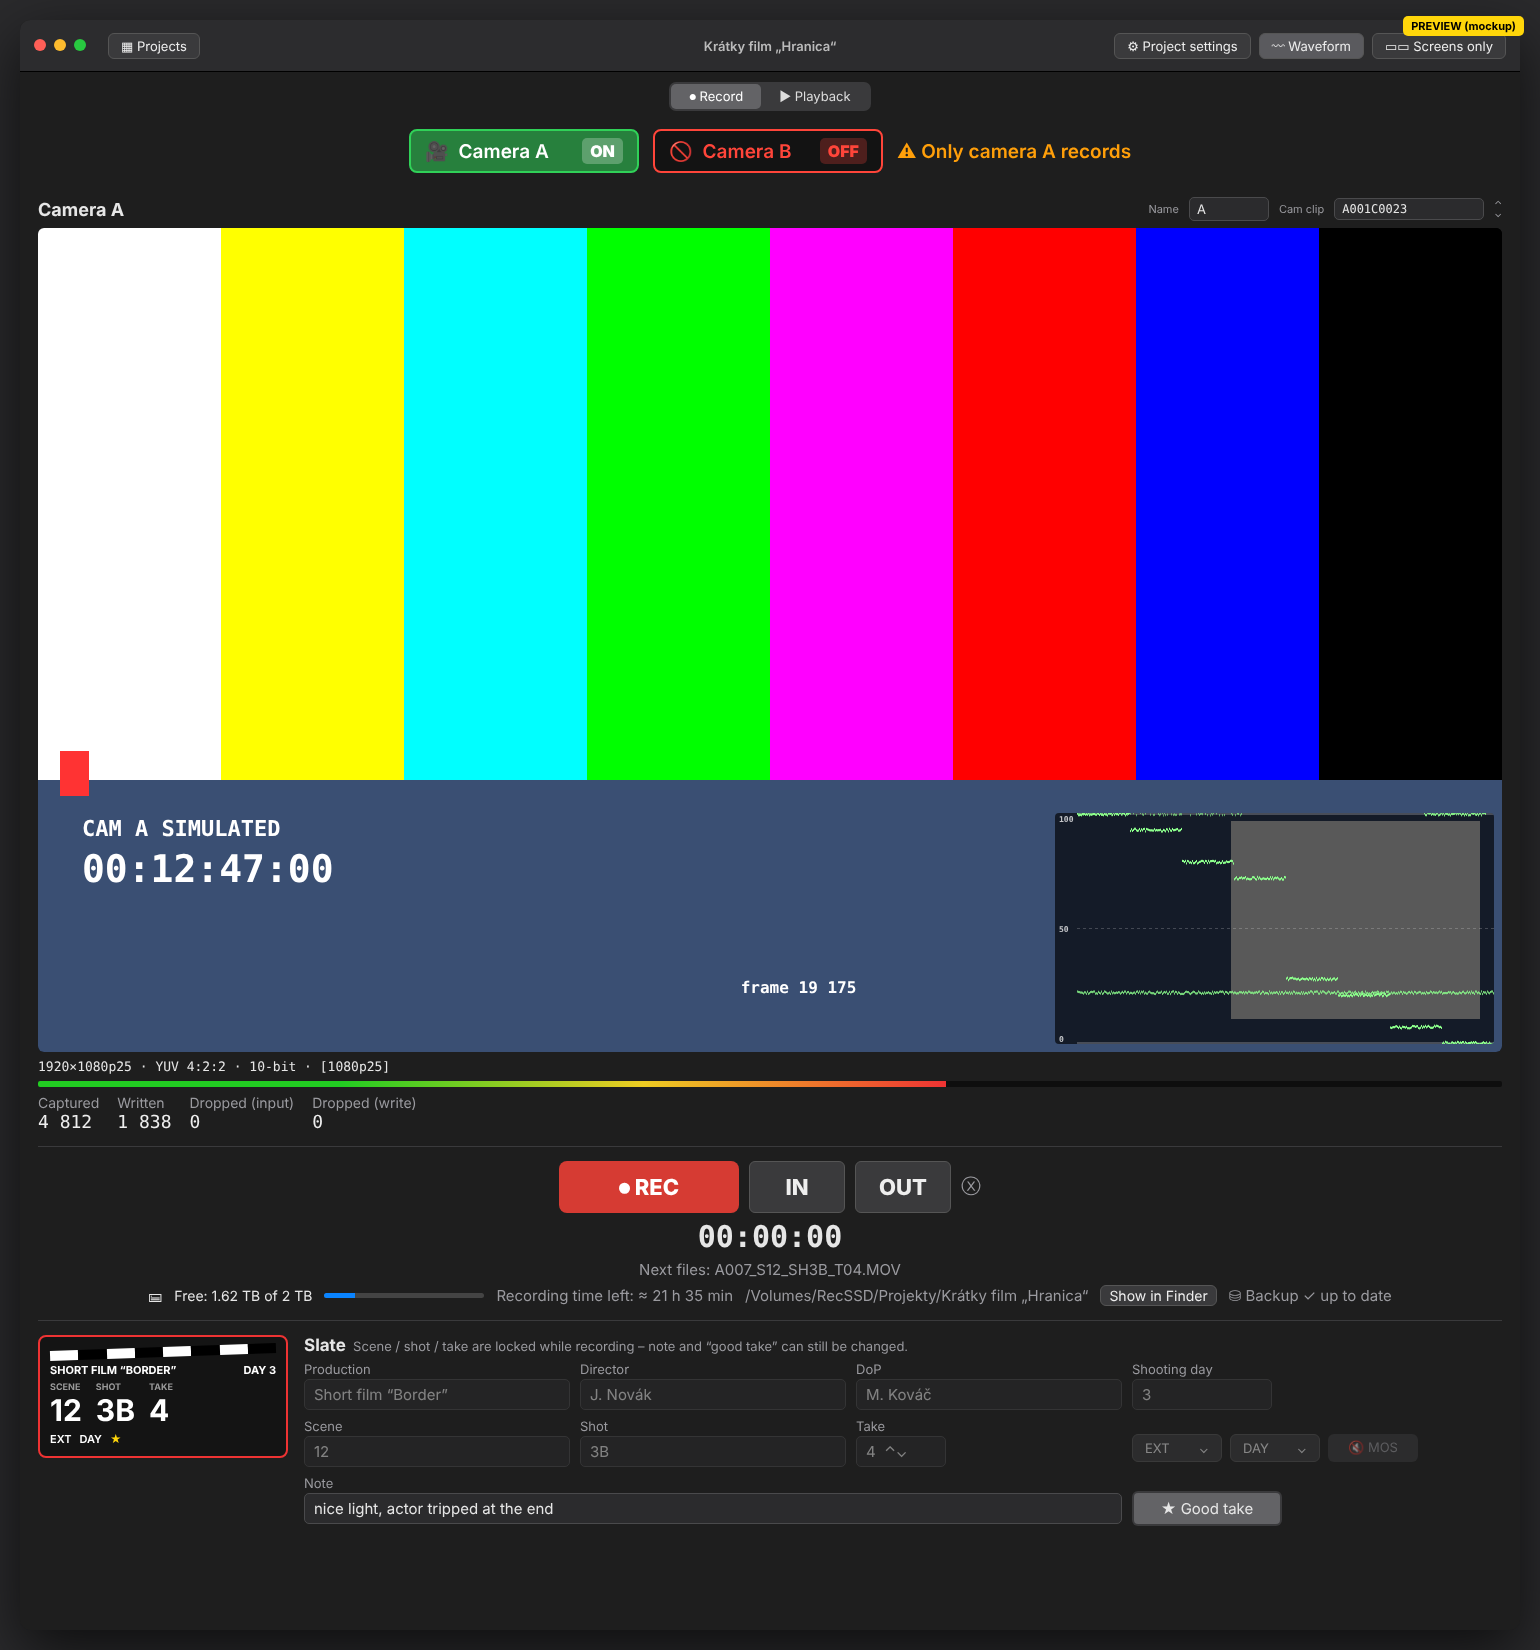
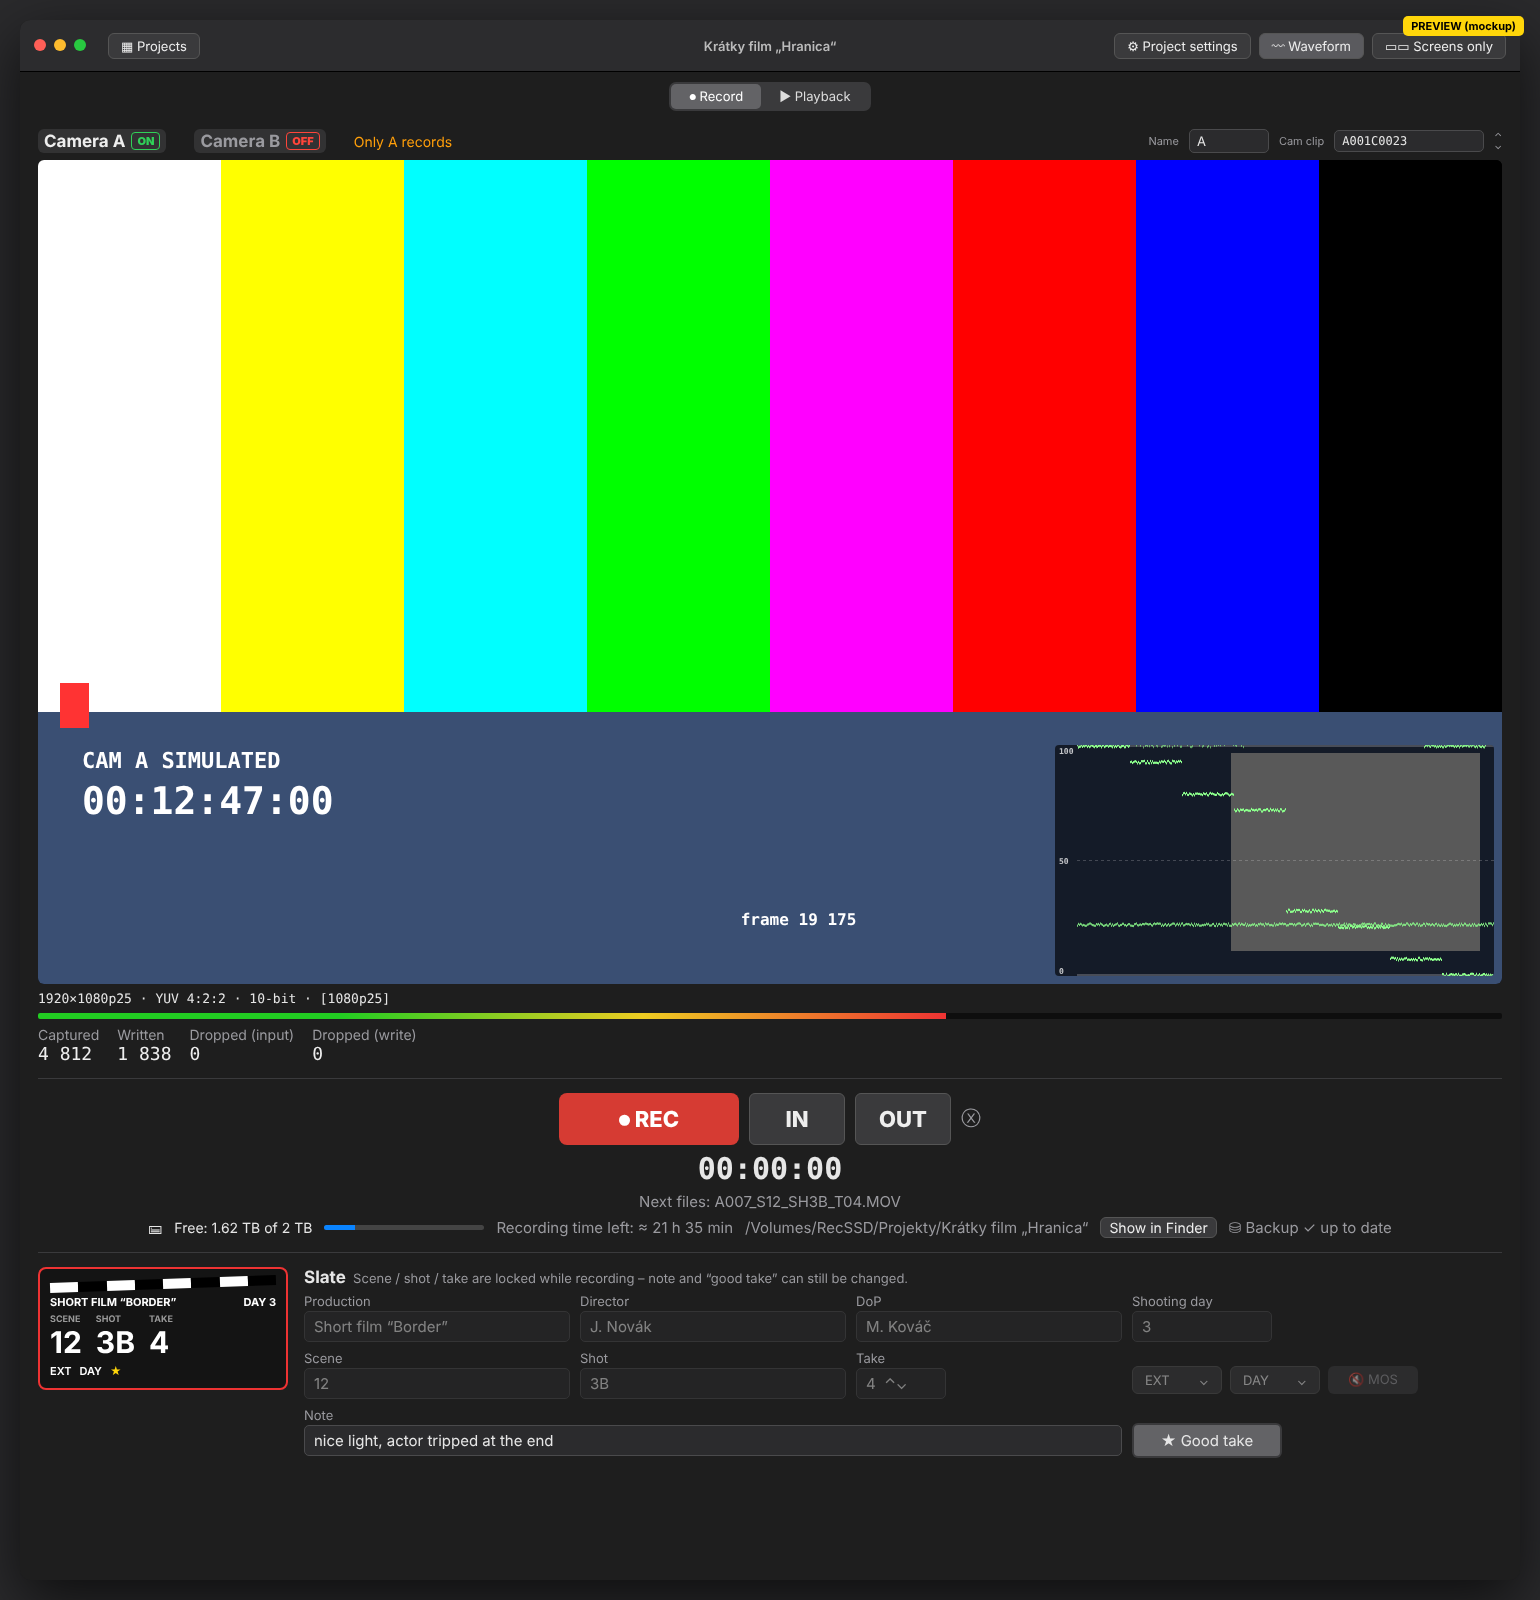
Record: camera on/off moved into the Camera A/B titles
Claude-Session: https://claude.ai/code/session_01SjxyfTkJQH7RKsrkA8EJQA

diff --git a/DualCamRecorder/Views/RecordView.swift b/DualCamRecorder/Views/RecordView.swift
@@ -47,19 +47,22 @@ struct RecordView: View {
 
     private var normalBody: some View {
         VStack(spacing: 12) {
-            if settings.twoCameras {
-                cameraSwitches
-            }
             HStack(alignment: .top, spacing: 12) {
                 if settings.isCameraOn(.a) {
-                    CameraPanel(controller: controller, channel: controller.channelA, showWaveform: settings.showWaveform)
+                    CameraPanel(controller: controller, channel: controller.channelA, settings: settings, showWaveform: settings.showWaveform)
                 }
                 if settings.isCameraOn(.b) {
-                    CameraPanel(controller: controller, channel: controller.channelB, showWaveform: settings.showWaveform)
+                    CameraPanel(controller: controller, channel: controller.channelB, settings: settings, showWaveform: settings.showWaveform)
                 }
             }
             .animation(.easeInOut(duration: 0.2), value: settings.cameraAOn)
             .animation(.easeInOut(duration: 0.2), value: settings.cameraBOn)
+            .background {
+                ZStack {
+                    ShortcutButton(key: "1", modifiers: [.option]) { controller.toggleCamera(.a) }
+                    ShortcutButton(key: "2", modifiers: [.option]) { controller.toggleCamera(.b) }
+                }
+            }
             Divider()
             transportBar
             Divider()
@@ -168,35 +171,6 @@ struct RecordView: View {
     }
 
     /// Two-camera projects: switch camera A or B off for a while – the other fills the screen and records alone.
-    /// Big ON / OFF buttons for camera A and B (two-camera projects). Turning one camera off makes the
-    /// other fill the screen and record alone – only until it is turned on again or the project is reopened.
-    private var cameraSwitches: some View {
-        HStack(spacing: 14) {
-            ForEach(CameraRole.allCases) { role in
-                CameraSwitchButton(name: role == .a ? settings.cameraNameA : settings.cameraNameB, role: role,
-                                   isOn: settings.isCameraOn(role)) {
-                    controller.toggleCamera(role)
-                }
-                .help("Camera \(role.rawValue) on / off (⌥\(role == .a ? 1 : 2))")
-            }
-            if settings.activeRoles.count == 1 {
-                Label("Only camera \(settings.activeRoles[0].rawValue) records", systemImage: "exclamationmark.triangle.fill")
-                    .font(.title3.weight(.semibold))
-                    .foregroundStyle(.orange)
-            } else {
-                Text("⌥1 / ⌥2").font(.callout).foregroundStyle(.secondary)
-            }
-        }
-        .disabled(controller.isRecording)
-        .background {
-            ZStack {
-                ShortcutButton(key: "1", modifiers: [.option]) { controller.toggleCamera(.a) }
-                ShortcutButton(key: "2", modifiers: [.option]) { controller.toggleCamera(.b) }
-            }
-        }
-        .frame(maxWidth: .infinity)
-    }
-
     private var takeLabel: String {
         var parts: [String] = []
         let names = settings.cameraNames
@@ -222,13 +196,33 @@ struct RecordView: View {
 struct CameraPanel: View {
     @ObservedObject var controller: RecordingController
     @ObservedObject var channel: CameraChannel
+    @ObservedObject var settings: AppSettings
     var showWaveform = false
+
+    /// "Camera A" title. With two cameras it is an ON / OFF button; a camera that is off has no panel,
+    /// so its OFF button is shown next to the title of the camera that is still on.
+    @ViewBuilder
+    private var cameraTitles: some View {
+        let role = channel.role
+        if settings.twoCameras {
+            let other: CameraRole = role == .a ? .b : .a
+            HStack(spacing: 8) {
+                if other == .a && !settings.isCameraOn(.a) { CameraTitleButton(controller: controller, settings: settings, role: .a) }
+                CameraTitleButton(controller: controller, settings: settings, role: role)
+                if other == .b && !settings.isCameraOn(.b) { CameraTitleButton(controller: controller, settings: settings, role: .b) }
+                if !settings.isCameraOn(other) {
+                    Text("Only \(role.rawValue) records").font(.callout).foregroundStyle(.orange)
+                }
+            }
+        } else {
+            Text("Camera \(role.rawValue)").font(.title3.weight(.bold))
+        }
+    }
 
     var body: some View {
         VStack(alignment: .leading, spacing: 8) {
             HStack {
-                Text("Camera \(channel.role.rawValue)")
-                    .font(.title3.weight(.bold))
+                cameraTitles
                 // Input device is chosen in Project settings.
                 Spacer(minLength: 12)
                 Text("Name").font(.caption).foregroundStyle(.secondary)
@@ -330,43 +324,31 @@ struct CameraScreen: View {
     }
 }
 
-/// Large coloured ON / OFF button for one camera (green = on, red outline = off).
-struct CameraSwitchButton: View {
-    let name: String
+/// Camera title that switches the camera on / off (two-camera projects, ⌥1 / ⌥2).
+struct CameraTitleButton: View {
+    @ObservedObject var controller: RecordingController
+    @ObservedObject var settings: AppSettings
     let role: CameraRole
-    let isOn: Bool
-    let action: () -> Void
-    @Environment(\.isEnabled) private var isEnabled
 
     var body: some View {
-        Button(action: action) {
-            HStack(spacing: 10) {
-                Image(systemName: isOn ? "video.fill" : "video.slash.fill")
-                    .font(.system(size: 20, weight: .semibold))
-                Text("Camera \(role.rawValue)" + (name != role.rawValue && !name.isEmpty ? " (\(name))" : ""))
-                    .font(.title3.weight(.semibold))
-                    .lineLimit(1)
-                Spacer(minLength: 6)
-                Text(isOn ? "ON" : "OFF")
-                    .font(.headline.weight(.heavy))
-                    .padding(.horizontal, 8).padding(.vertical, 3)
-                    .background(RoundedRectangle(cornerRadius: 5)
-                        .fill(isOn ? Color.white.opacity(0.25) : Color.red.opacity(0.25)))
+        let on = settings.isCameraOn(role)
+        Button { controller.toggleCamera(role) } label: {
+            HStack(spacing: 6) {
+                Text("Camera \(role.rawValue)")
+                    .font(.title3.weight(.bold))
+                    .foregroundStyle(on ? Color.primary : Color.secondary)
+                Text(on ? "ON" : "OFF")
+                    .font(.caption.weight(.heavy))
+                    .foregroundStyle(on ? Color.green : Color.red)
+                    .padding(.horizontal, 5).padding(.vertical, 1)
+                    .overlay(RoundedRectangle(cornerRadius: 4).strokeBorder(on ? Color.green : Color.red, lineWidth: 1))
             }
-            .padding(.horizontal, 14)
-            .frame(width: 230, height: 44)
-            .foregroundStyle(isOn ? Color.white : Color.red)
-            .background(
-                RoundedRectangle(cornerRadius: 8)
-                    .fill(isOn ? Color.green.opacity(0.55) : Color.black.opacity(0.35))
-            )
-            .overlay(
-                RoundedRectangle(cornerRadius: 8)
-                    .strokeBorder(isOn ? Color.green : Color.red, lineWidth: 2)
-            )
-            .opacity(isEnabled ? 1 : 0.55)
-            .contentShape(RoundedRectangle(cornerRadius: 8))
+            .padding(.horizontal, 6).padding(.vertical, 2)
+            .background(RoundedRectangle(cornerRadius: 6).fill(Color.gray.opacity(0.18)))
+            .contentShape(RoundedRectangle(cornerRadius: 6))
         }
         .buttonStyle(.plain)
+        .disabled(controller.isRecording)
+        .help("Camera \(role.rawValue) on / off (⌥\(role == .a ? 1 : 2)) – the other camera fills the screen and records alone")
     }
 }

diff --git a/README.md b/README.md
@@ -59,8 +59,9 @@ Rozhranie aplikácie je **v angličtine** (Record / Playback / Slate …); tento
 - V Playback → **Edit slate…** sa dajú hodnoty dodatočne opraviť.
 
 ### Dočasné vypnutie jednej kamery (Record, ⌥1 / ⌥2)
-- V projekte s dvoma kamerami sú nad obrazmi veľké tlačidlá **Camera A ON / Camera B ON** (zelené = zapnutá, červené OFF = vypnutá). Vypnutá kamera
+- V projekte s dvoma kamerami je nadpis **Camera A / Camera B** nad obrazom tlačidlo so značkou **ON / OFF**. Vypnutá kamera
   zmizne, druhá sa roztiahne na celú šírku a **nahráva sa len ona** (aj Cam clip sa zvýši len jej).
+  Tlačidlo vypnutej kamery (**Camera B OFF**) ostane v nadpise vedľa zapnutej, kliknutím ju znova zapneš.
 - Aspoň jedna kamera ostáva zapnutá; počas nahrávania sa prepínať nedá. Vypnutá kamera beží ďalej
   na pozadí, takže sa zapne okamžite. Platí aj v Screens only a pre živý náhľad na telefóny.
 - Je to len dočasné – nastavenie projektu sa nemení a pri otvorení projektu sú obe kamery zapnuté.
